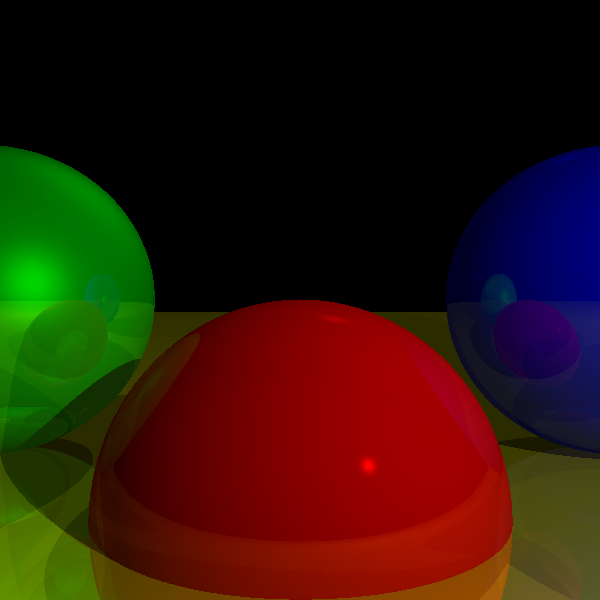
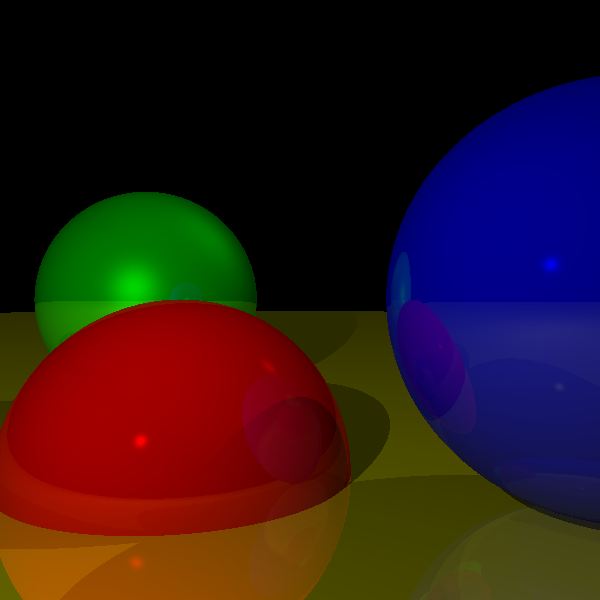
add code for camera rotation.

diff --git a/src/main/java/utilities/Vec.java b/src/main/java/utilities/Vec.java
@@ -1,24 +1,18 @@
 package main.java.utilities;
 public class Vec {
 
-    private double x, y, z;
-
-    public Vec() {
-        x = 0;
-        y = 0;
-        z = 0;
-    }
+    private double[] vec = new double[3];
 
     public Vec(double x, double y, double z) {
-        this.x = x;
-        this.y = y;
-        this.z = z;
+        vec[0] = x;
+        vec[1] = y;
+        vec[2] = z;
     }
 
     public Vec(Vec v) {
-        x = v.getX();
-        y = v.getY();
-        z = v.getZ();
+        vec[0] = v.getX();
+        vec[1] = v.getY();
+        vec[2] = v.getZ();
     }
 
 //    public void normalize() {
@@ -28,38 +22,56 @@ public class Vec {
 //        z = z / length;
 //    }
     public Vec colorBind() {
-        double a, b, c;
+        double x, y, z;
 
-        a = Math.min(x, 255);
-        b = Math.min(y, 255);
-        c = Math.min(z, 255);
+        x = Math.min(vec[0], 255);
+        y = Math.min(vec[1], 255);
+        z = Math.min(vec[2], 255);
 
-        return new Vec(a, b, c);
+        return new Vec(x, y, z);
+    }
+
+    public Vec mxV(Vec[] matrix) {
+        double[] ans = {0, 0, 0};
+
+        for (int i = 0; i < 3; i++) {
+            for (int j = 0; j < 3; j++) {
+               ans[i] += vec[j] * matrix[i].getN(j);
+            }
+        }
+
+        return new Vec(ans[0], ans[1], ans[2]);
     }
 
     public double dotProduct(Vec v) {
-        return (x * v.getX()) + (y * v.getY()) + (z * v.getZ());
+        return (vec[0] * v.getX()) + (vec[1] * v.getY()) + (vec[2] * v.getZ());
     }
 
     public double length() {
         return Math.sqrt(this.dotProduct(this));
     }
 
+
+
     public Vec scale(double factor) {
-        return new Vec(x * factor, y * factor, z * factor);
+        return new Vec(vec[0] * factor, vec[1] * factor, vec[2] * factor);
     }
 
     public Vec add(Vec v) {
-        return new Vec(x + v.getX(), y + v.getY(), z + v.getZ());
+        return new Vec(vec[0] + v.getX(), vec[1] + v.getY(), vec[2] + v.getZ());
     }
 
     public Vec sub(Vec v) {
-        return new Vec(x - v.getX(), y - v.getY(), z - v.getZ());
+        return new Vec(vec[0] - v.getX(), vec[1] - v.getY(), vec[2] - v.getZ());
     }
 
-    public double getX() { return x; }
+    public double getX() { return vec[0]; }
 
-    public double getY() { return y; }
+    public double getY() { return vec[1]; }
 
-    public double getZ() { return z; }
+    public double getZ() { return vec[2]; }
+
+    public double getN(int n) {
+        return vec[n];
+    }
 }

diff --git a/src/main/java/RayTracer.java b/src/main/java/RayTracer.java
@@ -27,7 +27,10 @@ public class RayTracer extends JPanel {
     private ArrayList<Shape> objects;
     private ArrayList<Light> lights;
 
-    Vec camera = new Vec(0, 0, 0);
+    Vec cameraDirection = new Vec(3, 0, 1);
+    Vec[] cameraRotation = {new Vec(0.7071, 0, -0.7071),
+                            new Vec(     0, 1,       0),
+                            new Vec(0.7071, 0,  0.7071)};
     Vec backgroundColor = new Vec(0, 0, 0);
 
     private int canvasWidth = 600;
@@ -39,9 +42,9 @@ public class RayTracer extends JPanel {
     private final int traceMax = 1000000000;
     private final int recursionDepth = 3;
 
-
     public static void main(String[] args) {
         RayTracer rayTracer = new RayTracer();
+
         Scene scene = new Scene();
 
         Vec center = new Vec(0, -1, 3);
@@ -82,11 +85,10 @@ public class RayTracer extends JPanel {
 
         Ray ray;
         Vec tempColor;
-        int tempX, tempY, tempZ;
 
         for (int x = -(rayTracer.canvasWidth / 2) ; x < (rayTracer.canvasWidth / 2); x++) {
             for (int y = -(rayTracer.canvasHeight / 2); y < (rayTracer.canvasHeight / 2); y++) {
-                ray = new Ray(rayTracer.camera, rayTracer.canvasToViewport(x, y));
+                ray = new Ray(rayTracer.cameraDirection, (rayTracer.canvasToViewport(x, y)).mxV(rayTracer.cameraRotation));
 
                 tempColor = (rayTracer.traceRay(ray, rayTracer.traceMin, rayTracer.traceMax, rayTracer.recursionDepth)).colorBind();
 

diff --git a/README.md b/README.md
@@ -13,6 +13,8 @@ This is a simple ray tracer using the Phong lighting model developed to learn mo
 - Ambient, point and directional lighting
 - Speculative reflection
 - Shadows
+- Reflection
+- Camera Rotation
 
 # Current Image
 
